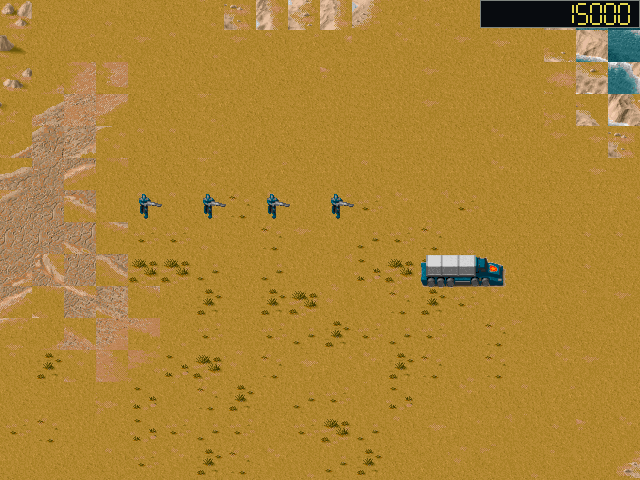
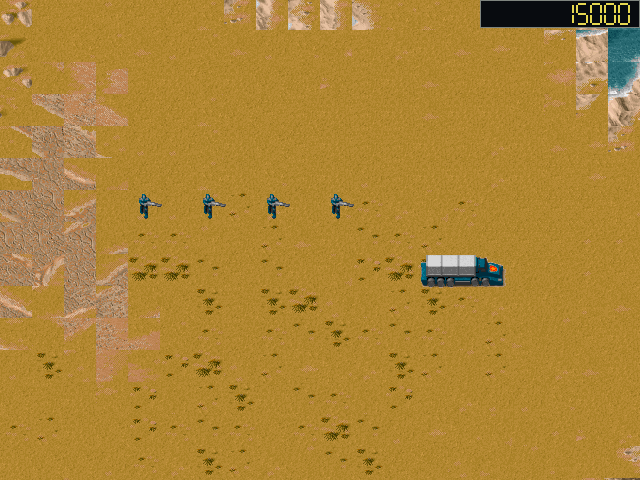
Fix 7th Legion terrain tile orientation
Render uncompressed 7th Legion terrain BIM scanlines bottom-up and preserve the MAPOVL low-byte tile/type field separately from placement metadata. Regenerate the README screenshot after visual comparison of the unflipped, horizontal, vertical, and combined variants. Verify all four game smoke checks.

diff --git a/games/7legion/w_map.c b/games/7legion/w_map.c
@@ -95,12 +95,16 @@ bool sl_load_map(const char *map_path, level_t *out) {
 
     out->tile_ids = calloc((size_t)W * H, sizeof(uint16_t));
     out->blocked  = calloc((size_t)W * H, sizeof(uint8_t));
-    if (!out->tile_ids || !out->blocked) {
+    out->tile_flip_flags[0] = calloc((size_t)W * H, sizeof(uint8_t));
+    if (!out->tile_ids || !out->blocked || !out->tile_flip_flags[0]) {
         free(out->tile_ids);
         free(out->blocked);
+        free(out->tile_flip_flags[0]);
         W_FreeFile(&tiles);
         return false;
     }
+    /* Uncompressed terrain BIM scanlines are stored bottom-up. */
+    memset(out->tile_flip_flags[0], 2, (size_t)W * H);
     const uint8_t *tile_bytes = (const uint8_t *)tiles.bytes;
     uint16_t key = 30000;
     for (int y = 0; y < H; ++y) {
@@ -113,8 +117,10 @@ bool sl_load_map(const char *map_path, level_t *out) {
     }
     W_FreeFile(&tiles);
 
-    /* MAPOVL is a sparse 16-bit overlay layer.  The high byte is the tile
-       index; the low byte carries the original renderer's placement flags. */
+    /* MAPOVL is a sparse 16-bit overlay layer.  The low byte identifies the
+       overlay tile/type; the high byte is native placement metadata.  Keep
+       the metadata separate from the tile id: the original renderer reads
+       both bytes independently when placing the overlay. */
     char overlay_path[512];
     if (sl_sibling_path(overlay_path, sizeof(overlay_path), map_path, "MAPOVL.000")) {
         blob_t overlay = { 0 };
@@ -123,7 +129,7 @@ bool sl_load_map(const char *map_path, level_t *out) {
             if (out->tile_overlays[0]) {
                 const uint8_t *p = (const uint8_t *)overlay.bytes;
                 for (int i = 0; i < W * H; ++i)
-                    out->tile_overlays[0][i] = (uint16_t)(read_u16_le(p + (size_t)i * 2) >> 8);
+                    out->tile_overlays[0][i] = (uint16_t)(read_u16_le(p + (size_t)i * 2) & 0xffu);
                 out->tile_overlay_count = 1;
                 out->render_capabilities |= MAP_RENDER_CAP_DEPTH_SORTED_TILE_LAYERS;
             }
